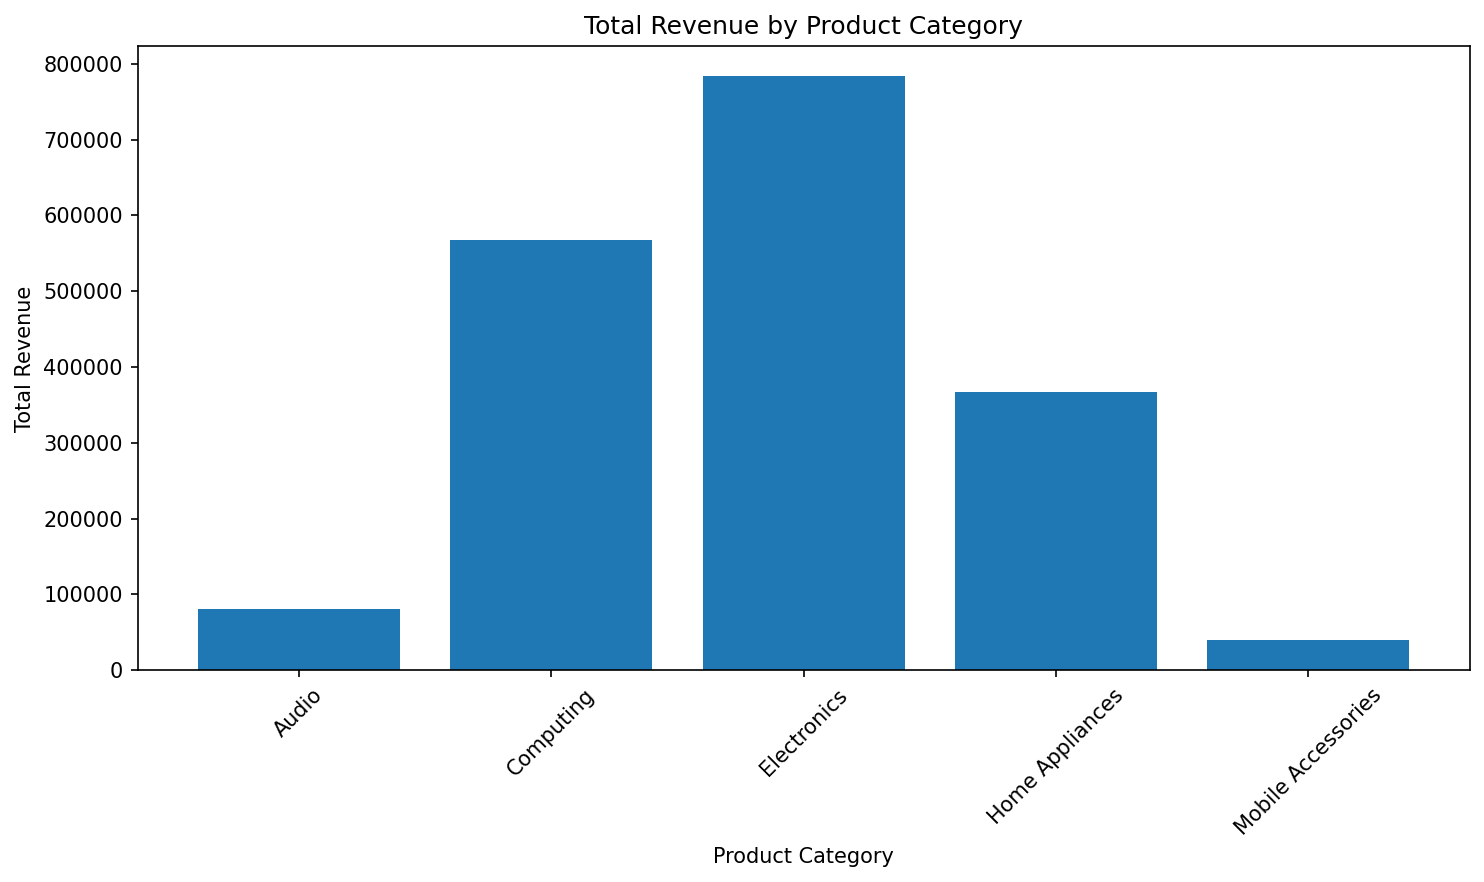
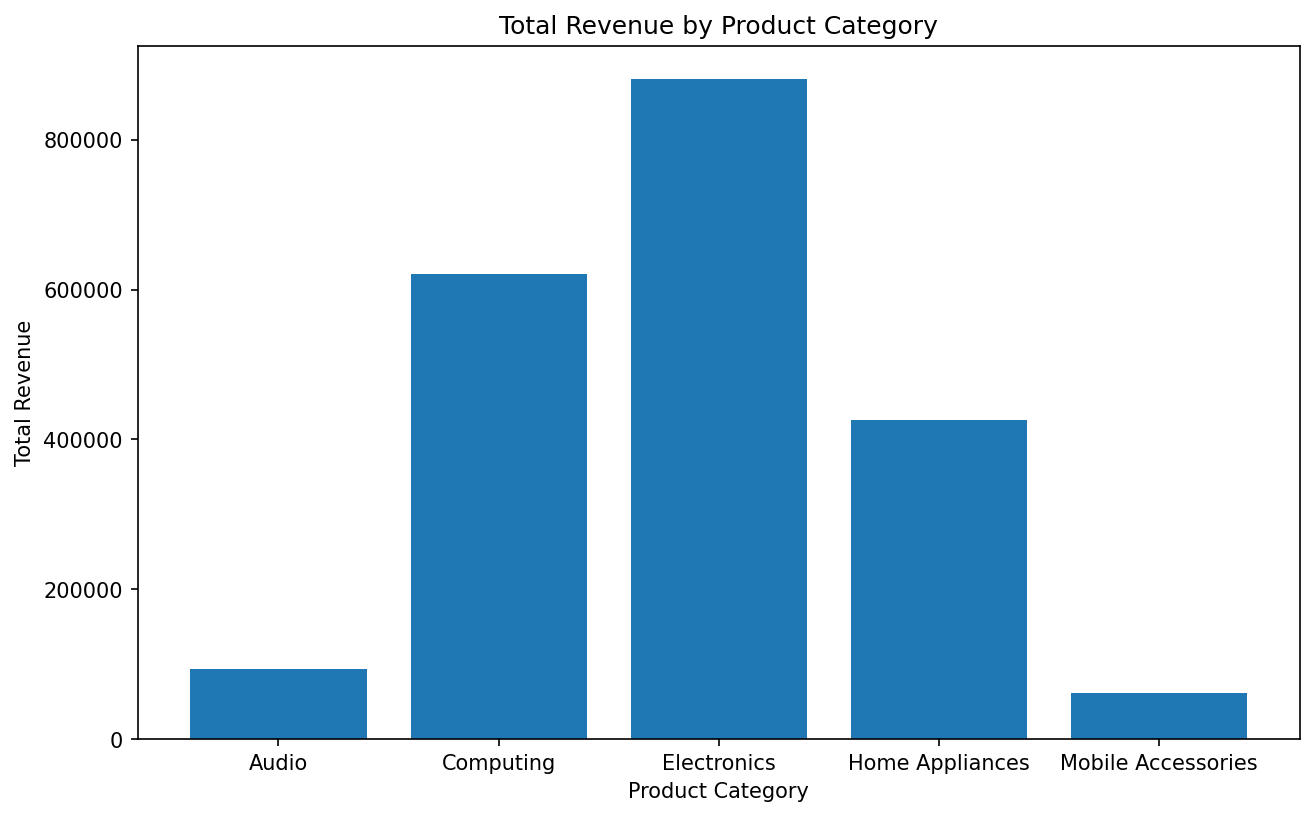
D

diff --git a/pipeline.py b/pipeline.py
@@ -12,13 +12,9 @@ import numpy as np
 import matplotlib.pyplot as plt
 
 
-# ─── Configuration ────────────────────────────────────────────────────────────
+DATA_PATH = "data/sales_records.csv"
+OUTPUT_DIR = "output"
 
-DATA_PATH = 'data/sales_records.csv'
-OUTPUT_DIR = 'output'
-
-
-# ─── Pipeline Functions ───────────────────────────────────────────────────────
 
 def load_data(filepath):
     """Load sales records from a CSV file.
@@ -29,11 +25,8 @@ def load_data(filepath):
     Returns:
         pd.DataFrame: Raw sales records DataFrame.
     """
-    # TODO: Load the CSV using pd.read_csv(filepath)
     df = pd.read_csv(filepath)
-    # TODO: Print a progress message: f"Loaded {len(df)} records from {filepath}"
     print(f"Loaded {len(df)} records from {filepath}")
-    # TODO: Return the DataFrame
     return df
 
 
@@ -51,16 +44,14 @@ def clean_data(df):
     Returns:
         pd.DataFrame: Cleaned DataFrame (do not modify the input in place).
     """
-    # TODO: Start with df = df.copy() — never modify the input DataFrame in place
     df = df.copy()
-    # TODO: Fill missing 'quantity' with df['quantity'].median()
-    df['quantity'].fillna(df['quantity'].median())
-    # TODO: Fill missing 'unit_price' with df['unit_price'].median()
-    df['unit_price'].fillna(df['unit_price'].median())
-    # TODO: Parse 'date' column: pd.to_datetime(df['date'], errors='coerce')
-    df['date'] = pd.to_datetime(df['date'], errors='coerce')
-    df = df.dropna()
-    # TODO: Print progress and return cleaned DataFrame
+
+    df["quantity"] = df["quantity"].fillna(df["quantity"].median())
+    df["unit_price"] = df["unit_price"].fillna(df["unit_price"].median())
+    df["date"] = pd.to_datetime(df["date"], errors="coerce")
+
+    df = df.dropna(subset=["quantity", "unit_price"], how="all")
+
     print(f"Cleaned data: {len(df)} records")
     return df
 
@@ -77,14 +68,9 @@ def add_features(df):
     Returns:
         pd.DataFrame: DataFrame with new columns added.
     """
-    # TODO: Start with df = df.copy()
     df = df.copy()
-    # TODO: df['revenue'] = df['quantity'] * df['unit_price']
-    df['revenue'] = df['quantity'] * df['unit_price']
-    # TODO: df['day_of_week'] = df['date'].dt.day_name()
-    df['day_of_week'] = df['date'].dt.day_name()
-    #        (requires 'date' to be datetime type — must call after clean_data)
-    # TODO: Return the enriched DataFrame
+    df["revenue"] = df["quantity"] * df["unit_price"]
+    df["day_of_week"] = df["date"].dt.day_name()
     return df
 
 
@@ -101,75 +87,83 @@ def generate_summary(df):
             - 'top_category': product category with highest total revenue
             - 'record_count': number of records in df
     """
-    # TODO: Compute top category: df.groupby('product_category')['revenue'].sum().idxmax()
-    top_category = df.groupby('product_category')['revenue'].sum().idxmax()
-    # TODO: Return a dict with the four keys above
+    top_category = df.groupby("product_category")["revenue"].sum().idxmax()
+
     return {
-        'total_revenue': df['revenue'].sum(),
-        'avg_order_value': df['revenue'].mean(),
-        'top_category': top_category,
-        'record_count': len(df)
+        "total_revenue": df["revenue"].sum(),
+        "avg_order_value": df["revenue"].mean(),
+        "top_category": top_category,
+        "record_count": len(df),
     }
-    pass
 
 
 def create_visualizations(df, output_dir=OUTPUT_DIR):
-    """Create and save 3 charts as PNG files."""
-    
-    # TODO: Create the output directory: os.makedirs(output_dir, exist_ok=True)
+    """Create and save 3 charts as PNG files.
+
+    Charts to create:
+    1. Bar chart: total revenue by product category
+    2. Line chart: daily revenue trend (aggregate revenue by date)
+    3. Horizontal bar chart: average order value by payment method
+
+    Save each chart as a PNG using fig.savefig().
+    Do NOT use plt.show() — it blocks execution in pipeline scripts.
+    Close each figure with plt.close(fig) after saving.
+
+    Args:
+        df (pd.DataFrame): Enriched DataFrame from add_features().
+        output_dir (str): Directory to save PNG files (create if needed).
+    """
     os.makedirs(output_dir, exist_ok=True)
 
-    # TODO: Chart 1 — Bar chart: total revenue by product category
-    fig = plt.figure(figsize=(10, 6)) # <--- التعديل هنا
-    category_revenue = df.groupby('product_category')['revenue'].sum()
-    plt.bar(category_revenue.index, category_revenue.values)
-    plt.title("Total Revenue by Product Category")
-    plt.xlabel("Product Category")
-    plt.ylabel("Total Revenue")
-    plt.xticks(rotation=45)
-    plt.tight_layout()
-    plt.savefig(f'{output_dir}/revenue_by_category.png', dpi=150, bbox_inches='tight')
+    # Chart 1: revenue by product category
+    revenue_by_category = df.groupby("product_category")["revenue"].sum()
+
+    fig, ax = plt.subplots(figsize=(10, 6))
+    ax.bar(revenue_by_category.index, revenue_by_category.values)
+    ax.set_title("Total Revenue by Product Category")
+    ax.set_xlabel("Product Category")
+    ax.set_ylabel("Total Revenue")
+    fig.savefig(f"{output_dir}/revenue_by_category.png", dpi=150, bbox_inches="tight")
     plt.close(fig)
 
-    # TODO: Chart 2 — Line chart: daily revenue trend
-    fig = plt.figure(figsize=(10, 6)) # <--- التعديل هنا
-    daily_revenue = df.groupby('date')['revenue'].sum().sort_index()
-    plt.plot(daily_revenue.index, daily_revenue.values)
-    plt.title("Daily Revenue Trend")
-    plt.xlabel("Date")
-    plt.ylabel("Total Revenue")
-    plt.xticks(rotation=45)
-    plt.tight_layout()
-    plt.savefig(f'{output_dir}/daily_revenue_trend.png', dpi=150, bbox_inches='tight')
+    # Chart 2: daily revenue trend
+    daily_revenue = df.groupby("date")["revenue"].sum().sort_index()
+
+    fig, ax = plt.subplots(figsize=(10, 6))
+    ax.plot(daily_revenue.index, daily_revenue.values)
+    ax.set_title("Daily Revenue Trend")
+    ax.set_xlabel("Date")
+    ax.set_ylabel("Revenue")
+    fig.savefig(f"{output_dir}/daily_revenue_trend.png", dpi=150, bbox_inches="tight")
     plt.close(fig)
 
-    # TODO: Chart 3 — Horizontal bar chart: avg order value by payment method
-    fig = plt.figure(figsize=(10, 6)) # <--- التعديل هنا
-    avg_order_value = df.groupby('payment_method')['revenue'].mean()
-    plt.barh(avg_order_value.index, avg_order_value.values)
-    plt.title("Average Order Value by Payment Method")
-    plt.xlabel("Average Order Value")
-    plt.ylabel("Payment Method")
-    plt.tight_layout()
-    plt.savefig(f'{output_dir}/avg_order_by_payment.png', dpi=150, bbox_inches='tight')
+    # Chart 3: average order value by payment method
+    avg_order_by_payment = df.groupby("payment_method")["revenue"].mean()
+
+    fig, ax = plt.subplots(figsize=(10, 6))
+    ax.barh(avg_order_by_payment.index, avg_order_by_payment.values)
+    ax.set_title("Average Order Value by Payment Method")
+    ax.set_xlabel("Average Order Value")
+    ax.set_ylabel("Payment Method")
+    fig.savefig(f"{output_dir}/avg_order_by_payment.png", dpi=150, bbox_inches="tight")
     plt.close(fig)
 
 
 def main():
     """Run the full data pipeline end-to-end."""
-    # TODO: Call load_data(DATA_PATH)
     df = load_data(DATA_PATH)
-    # TODO: Call clean_data(df)
     df = clean_data(df)
-    # TODO: Call add_features(df)
     df = add_features(df)
-    # TODO: Call generate_summary(df) and print the results
+
     summary = generate_summary(df)
-    for key, value in summary.items():
-        print(f"{key}: {value}")
-    # TODO: Call create_visualizations(df)
+
+    print("=== Summary ===")
+    print(f"Total Revenue: {summary['total_revenue']}")
+    print(f"Average Order Value: {summary['avg_order_value']}")
+    print(f"Top Category: {summary['top_category']}")
+    print(f"Record Count: {summary['record_count']}")
+
     create_visualizations(df)
-    # TODO: Print "Pipeline complete."
     print("Pipeline complete.")
 
 

diff --git a/tests/test_pipeline.py b/tests/test_pipeline.py
@@ -15,49 +15,47 @@ import pytest
 from pipeline import load_data, clean_data, add_features
 
 
-# ─── Test 1 ───────────────────────────────────────────────────────────────────
-
 def test_load_data_returns_dataframe():
     """load_data should return a DataFrame with expected columns and rows."""
-    # TODO: Call load_data('data/sales_records.csv')
-    df = load_data('data/sales_records.csv')
-    # TODO: Assert the result is a pd.DataFrame
+    df = load_data("data/sales_records.csv")
+
     assert isinstance(df, pd.DataFrame)
-    # TODO: Assert len(df) > 0
     assert len(df) > 0
-    # TODO: Assert all expected columns are present:
-    #        'date', 'store_id', 'product_category', 'quantity', 'unit_price', 'payment_method'
-    assert 'date' in df.columns
-    assert 'store_id' in df.columns
-    assert 'product_category' in df.columns
-    assert 'quantity' in df.columns
-    assert 'unit_price' in df.columns
-    assert 'payment_method' in df.columns
 
+    expected_columns = [
+        "date",
+        "store_id",
+        "product_category",
+        "quantity",
+        "unit_price",
+        "payment_method",
+    ]
 
-# ─── Test 2 ───────────────────────────────────────────────────────────────────
+    for col in expected_columns:
+        assert col in df.columns
+
 
 def test_clean_data_no_nulls():
     """After clean_data, quantity and unit_price should have no NaN values."""
-    # TODO: Load the data, then call clean_data
-    df= load_data('data/sales_records.csv')
+    df = load_data("data/sales_records.csv")
     cleaned = clean_data(df)
-    # TODO: Assert cleaned['quantity'].isna().sum() == 0
-    assert cleaned['quantity'].isna().sum() == 0
-    # TODO: Assert cleaned['unit_price'].isna().sum() == 0
-    assert cleaned['unit_price'].isna().sum() == 0
 
+    assert cleaned["quantity"].isna().sum() == 0
+    assert cleaned["unit_price"].isna().sum() == 0
 
-# ─── Test 3 ───────────────────────────────────────────────────────────────────
 
 def test_add_features_creates_revenue():
     """add_features should add a 'revenue' column equal to quantity * unit_price."""
-    # TODO: Load and clean the data, then call add_features
-    df = load_data('data/sales_records.csv')
-    df = clean_data(df)
-    df = add_features(df)
-    # TODO: Assert 'revenue' in df.columns
-    assert 'revenue' in df.columns
-    # TODO: Assert the revenue values equal quantity * unit_price
-    #        Use pd.testing.assert_series_equal for float comparison
-    pd.testing.assert_series_equal(df['revenue'], (df['quantity'] * df['unit_price']).rename('revenue'))
+    df = load_data("data/sales_records.csv")
+    cleaned = clean_data(df)
+    featured = add_features(cleaned)
+
+    assert "revenue" in featured.columns
+
+    expected_revenue = featured["quantity"] * featured["unit_price"]
+
+    pd.testing.assert_series_equal(
+        featured["revenue"],
+        expected_revenue,
+        check_names=False
+    )
